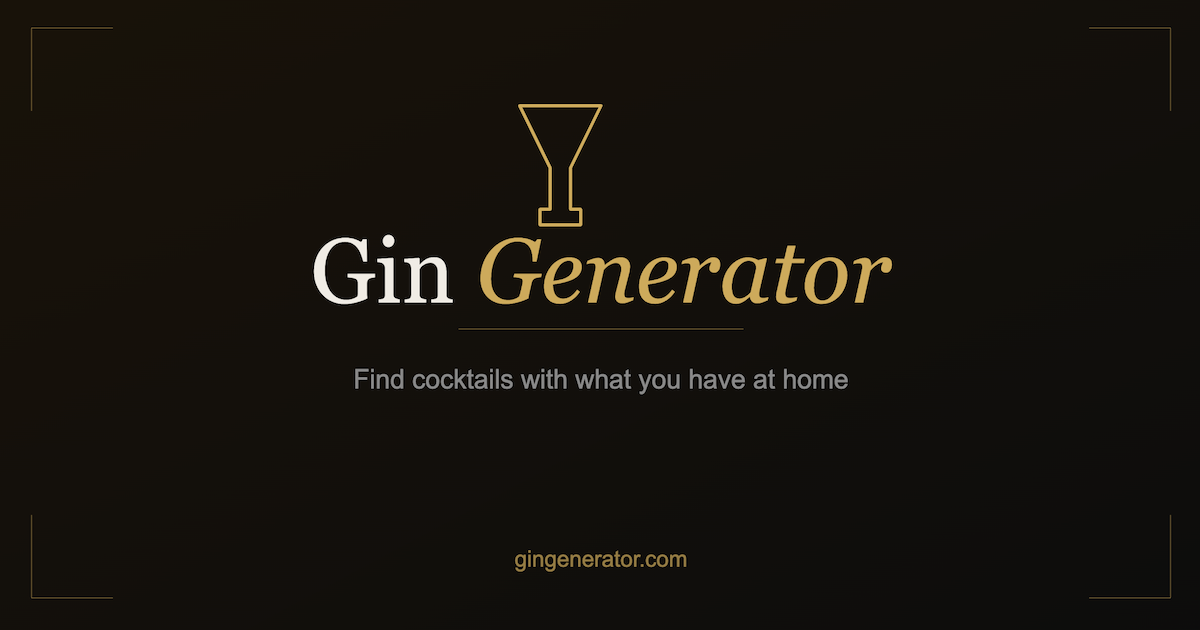
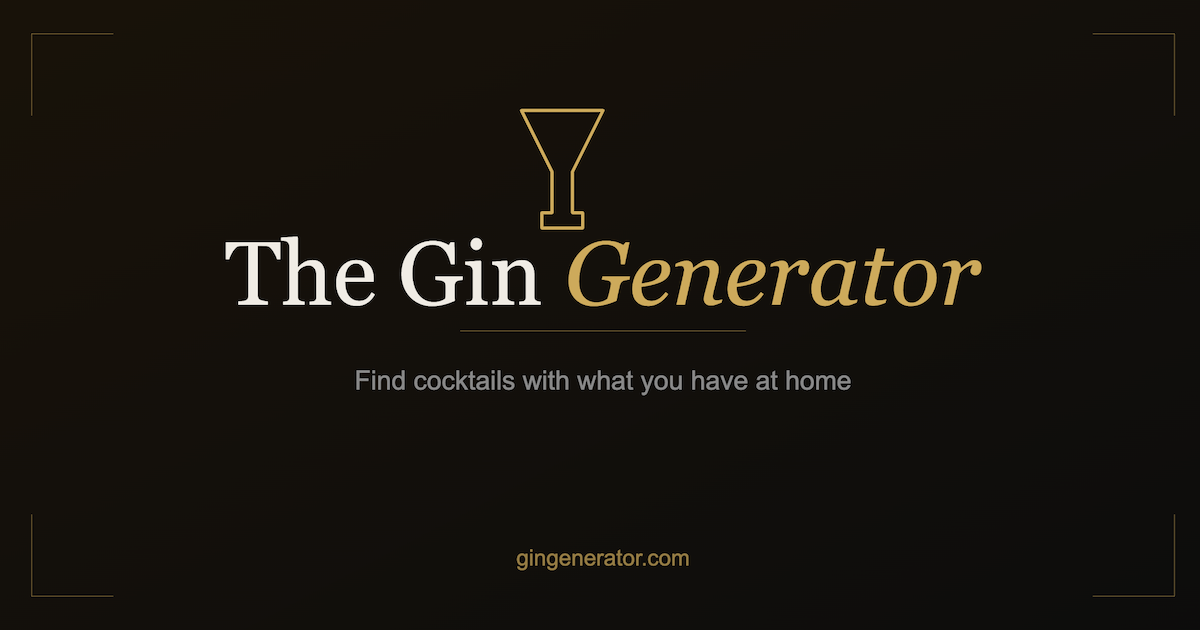
Add files via upload

diff --git a/index.html b/index.html
@@ -5,7 +5,7 @@
   <meta name="viewport" content="width=device-width, initial-scale=1.0" />
 
   <!-- Primary SEO -->
-  <title>Gin Generator – Find cocktails with what you have at home</title>
+  <title>The Gin Generator – Find cocktails with what you have at home</title>
   <meta name="description" content="Enter your ingredients and discover cocktails you can make. Search hundreds of recipes instantly – no registration required." />
   <meta name="robots" content="index, follow" />
   <link rel="canonical" href="https://www.gingenerator.com/" />
@@ -14,18 +14,18 @@
   <!-- Open Graph (Facebook, LinkedIn, iMessage m.fl.) -->
   <meta property="og:type" content="website" />
   <meta property="og:url" content="https://www.gingenerator.com/" />
-  <meta property="og:title" content="Gin Generator – Find cocktails with what you have at home" />
+  <meta property="og:title" content="The Gin Generator – Find cocktails with what you have at home" />
   <meta property="og:description" content="Enter your ingredients and discover cocktails you can make. Search hundreds of recipes instantly – no registration required." />
   <meta property="og:image" content="https://www.gingenerator.com/preview.png" />
   <meta property="og:image:width" content="1200" />
   <meta property="og:image:height" content="630" />
   <meta property="og:locale" content="sv_SE" />
-  <meta property="og:site_name" content="Gin Generator" />
+  <meta property="og:site_name" content="The Gin Generator" />
 
   <!-- Twitter / X Cards -->
   <meta name="twitter:card" content="summary_large_image" />
   <meta name="twitter:url" content="https://www.gingenerator.com/" />
-  <meta name="twitter:title" content="Gin Generator – Find cocktails with what you have at home" />
+  <meta name="twitter:title" content="The Gin Generator – Find cocktails with what you have at home" />
   <meta name="twitter:description" content="Enter your ingredients and discover cocktails you can make. Search hundreds of recipes instantly – no registration required." />
   <meta name="twitter:image" content="https://www.gingenerator.com/preview.png" />
 
@@ -34,7 +34,7 @@
   {
     "@context": "https://schema.org",
     "@type": "WebApplication",
-    "name": "Gin Generator",
+    "name": "The Gin Generator",
     "url": "https://www.gingenerator.com/",
     "description": "Enter your ingredients and discover cocktails you can make. Search hundreds of recipes instantly – no registration required.",
     "applicationCategory": "FoodAndDrink",
@@ -495,7 +495,7 @@
     <svg width="24" height="24" viewBox="0 0 24 24" fill="none">
       <path d="M4 3h16l-6 9.5V20h2.5v1.5h-9V20H10v-7.5L4 3z" stroke="currentColor" stroke-width="1.4" stroke-linejoin="round"/>
     </svg>
-    <h1>Gin <em>Generator</em></h1>
+    <h1>The Gin <em>Generator</em></h1>
   </div>
   <p class="tagline">Skriv in vad du har hemma — vi blandar resten.</p>
   <!-- lang:tagline -->

diff --git a/kontakt.html b/kontakt.html
@@ -3,8 +3,8 @@
 <head>
   <meta charset="UTF-8" />
   <meta name="viewport" content="width=device-width, initial-scale=1.0" />
-  <title>Kontakt – Gin Generator</title>
-  <meta name="description" content="Kontakta oss med frågor eller feedback om Gin Generatorn." />
+  <title>Kontakt – The Gin Generator</title>
+  <meta name="description" content="Kontakta oss med frågor eller feedback om The Gin Generator." />
   <meta name="robots" content="index, follow" />
   <link rel="canonical" href="https://www.gingenerator.com/kontakt.html" />
   <link rel="icon" href="/favicon.ico" sizes="any" />
@@ -129,7 +129,7 @@
       <svg width="24" height="24" viewBox="0 0 24 24" fill="none">
         <path d="M4 3h16l-6 9.5V20h2.5v1.5h-9V20H10v-7.5L4 3z" stroke="currentColor" stroke-width="1.4" stroke-linejoin="round"/>
       </svg>
-      <h1>Gin <em>Generator</em></h1>
+      <h1>The Gin <em>Generator</em></h1>
     </a>
   </div>
   <p class="tagline" id="tagline">Vi hör gärna från dig.</p>
